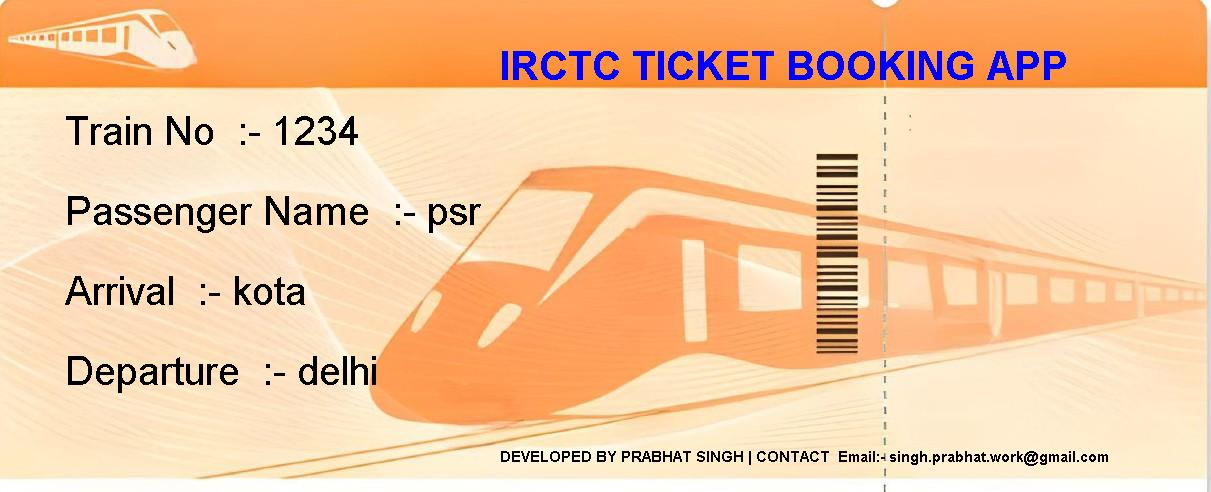
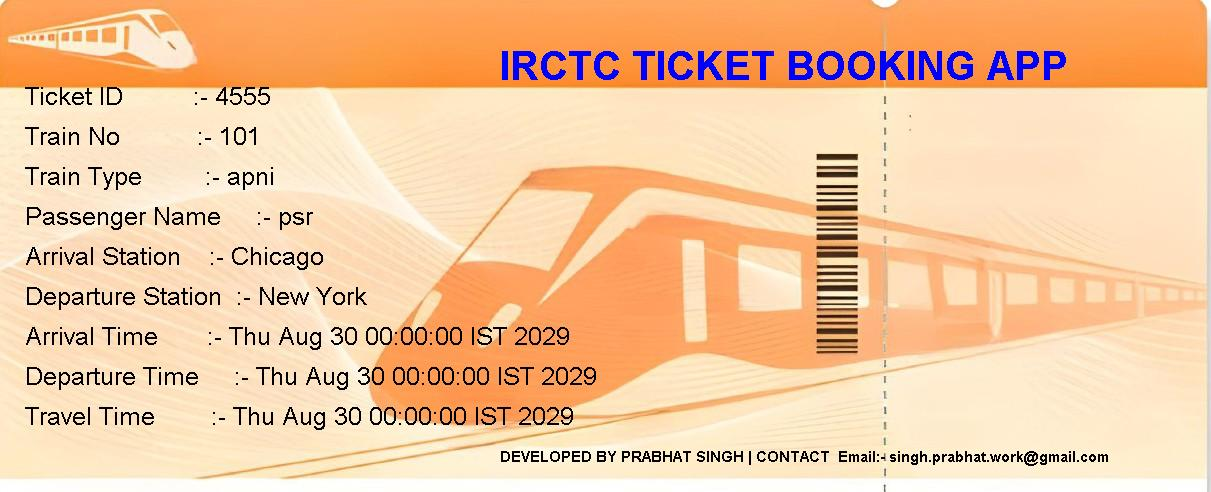
add more content in ticket

diff --git a/app/src/main/java/org/example/services/TicketServices.java b/app/src/main/java/org/example/services/TicketServices.java
@@ -3,12 +3,9 @@ package org.example.services;
 import org.example.TicketGenerator;
 import org.example.Utilities;
 
-import java.sql.Connection;
-import java.sql.PreparedStatement;
-import java.sql.SQLException;
+import java.sql.*;
 import java.text.ParseException;
 import java.text.SimpleDateFormat;
-import java.sql.Date;
 import java.util.UUID;
 
 import static org.example.dataBase.DataBaseConfig.createConnection;
@@ -22,20 +19,43 @@ public class TicketServices {
 
     // Method to book a ticket
     public void bookTicket(int trainId, String destination, String arrival, String date, String name, String email) {
-        // SQL queries for inserting a ticket and updating train seat availability
+        // SQL queries for inserting a ticket, updating train seat availability, and retrieving train details
         String query = "INSERT INTO ticket (TicketId, TicketDate, PassangerName, DateOfTravel, TrainID, Destination, Departure) VALUES (?, ?, ?, ?, ?, ?, ?)";
         String query2 = "UPDATE TrainDetails SET TotalSeats = TotalSeats - 1 WHERE trainId = ?;";
+        String query3 = "SELECT TrainType, ArrivalTime, DepartureTime FROM TrainDetails WHERE TrainID = ?";  // New query to retrieve train details
 
         try (Connection connection = createConnection()) {
+            // 1. Get train details (TrainType, ArrivalTime, DepartureTime)
+            PreparedStatement stmt = connection.prepareStatement(query3);
+            stmt.setInt(1, trainId); // Set the trainId parameter
+            ResultSet rs = stmt.executeQuery();
+
+            // Declare variables to store train details
+            String trainType;
+            Time arrivalTime;
+            Time departureTime;
+
+            // Fetch the details from the result set
+            if (rs.next()) {
+                trainType = rs.getString("TrainType");
+                arrivalTime = rs.getTime("ArrivalTime");
+                departureTime = rs.getTime("DepartureTime");
+            } else {
+                System.out.println("No train found for Train ID: " + trainId);
+                return;  // Exit the method if no train found with the given TrainID
+            }
+
+            // 2. Proceed with booking the ticket (Insert into ticket table and update seats)
             PreparedStatement preparedStatement = connection.prepareStatement(query);
 
             // Convert input travelDate to java.sql.Date
             SimpleDateFormat sdf = new SimpleDateFormat("dd-MM-yyyy");
             java.util.Date parsedTravelDate = sdf.parse(date);
             Date sqlTravelDate = new Date(parsedTravelDate.getTime());
+            String ticketID = generateUniqueId();
 
             // Set parameters in the correct order
-            preparedStatement.setString(1, generateUniqueId()); // TicketId
+            preparedStatement.setString(1, ticketID); // TicketId
             preparedStatement.setDate(2, new Date(System.currentTimeMillis())); // Current date for TicketDate
             preparedStatement.setString(3, name); // Passenger Name
             preparedStatement.setDate(4, sqlTravelDate); // Date of Travel
@@ -43,7 +63,7 @@ public class TicketServices {
             preparedStatement.setString(6, destination); // Destination
             preparedStatement.setString(7, arrival); // Departure
 
-            // Execute the query
+            // Execute the query to insert the ticket
             preparedStatement.executeUpdate();
 
             // Decrement seat count for the train
@@ -56,7 +76,8 @@ public class TicketServices {
 
             // Generate and send the ticket
             TicketGenerator ticket = new TicketGenerator();
-            String path = ticket.printTicket(trainId, name, arrival, destination);
+            String path = ticket.printTicket(ticketID, trainId, trainType,arrivalTime,departureTime,name, arrival, destination,sqlTravelDate);
+
             VerificationEmail ticketEmail = new VerificationEmail();
 
             // Try to send the ticket via email
@@ -70,9 +91,7 @@ public class TicketServices {
             }
 
         } catch (SQLException | ParseException e) {
-            // Error handling with user-friendly message instead of printStackTrace
             System.err.println("Error: There was an issue while booking the ticket. Please check your input or database connection.");
-            throw new RuntimeException(e); // Rethrow exception for further handling if necessary
         }
     }
 

diff --git a/app/src/main/java/org/example/TicketGenerator.java b/app/src/main/java/org/example/TicketGenerator.java
@@ -5,11 +5,37 @@ import java.awt.*;
 import java.awt.image.BufferedImage;
 import java.io.File;
 import java.io.IOException;
+import java.text.ParseException;
+import java.text.SimpleDateFormat;
+import java.util.Date;
 
 public class TicketGenerator {
+    public static void main(String[] args) throws ParseException {
+        String ticketId = "4555";
+        int trainId = 101; // Test with an existing train ID
+        String Traintype = "apni";
+        String dateStr = "08-30-29"; // Date in MM-dd-yy format
+
+        // Parse the string to Date using SimpleDateFormat
+        SimpleDateFormat sdf = new SimpleDateFormat("MM-dd-yy");
+        Date arrival = sdf.parse(dateStr);
+        String dateStr1 = "08-30-29"; // Date in MM-dd-yy format
+
+        // Parse the string to Date using SimpleDateFormat
+        SimpleDateFormat sdf1 = new SimpleDateFormat("MM-dd-yy");
+        Date departure = sdf1.parse(dateStr1);
+        String destination = "New York";
+        String arrivalstation = "Chicago";
+        String name  = "psr";
+        String dateStr01 = "08-30-39"; // Date in MM-dd-yy format
+        SimpleDateFormat sdf2 = new SimpleDateFormat("MM-dd-yy");
+        Date date = sdf2.parse(dateStr01);
+
+        printTicket(ticketId,trainId,Traintype,arrival,departure,name,arrivalstation,destination,date);
+    }
 
     // Method to generate and print a ticket for a passenger
-    public String printTicket(int trainId, String passangerName, String arrival, String destination) {
+    public static String printTicket(String ticketId, int trainId, String trainType, Date arrivalTime,Date departureTime, String passangerName, String arrival, String destination,Date travelDate) {
         String path = "app/src/main/resources/Ticket.jpg";  // File path for the generated ticket
         try {
             // Load the background image for the ticket
@@ -30,19 +56,23 @@ public class TicketGenerator {
             g2d.drawString(title, titleX, titleY);
 
             // Set font and color for the rest of the text
-            g2d.setFont(new Font("Arial", Font.PLAIN, 40));
+            g2d.setFont(new Font("Arial", Font.PLAIN, 25));
             g2d.setColor(Color.BLACK);
 
             // Padding and height for text positioning
-            int padding = 65;
-            int heightLine = 80;
+            int padding = 25;
+            int heightLine = 40;
 
             // Draw ticket details on the image
-            g2d.drawString("Train No  :- " + trainId, padding, padding + heightLine);
-            g2d.drawString("Passenger Name  :- " + passangerName, padding, padding + heightLine * 2);
-            g2d.drawString("Arrival  :- " + arrival, padding, padding + heightLine * 3);
-            g2d.drawString("Departure  :- " + destination, padding, padding + heightLine * 4);
-
+            g2d.drawString("Ticket ID          :- " + ticketId, padding, padding + heightLine * 2);
+            g2d.drawString("Train No           :- " + trainId, padding, padding + heightLine * 3);
+            g2d.drawString("Train Type         :- " + trainType, padding, padding + heightLine * 4);
+            g2d.drawString("Passenger Name     :- " + passangerName, padding, padding + heightLine * 5);
+            g2d.drawString("Arrival Station    :- " + arrival, padding, padding + heightLine * 6);
+            g2d.drawString("Departure Station  :- " + destination, padding, padding + heightLine * 7);
+            g2d.drawString("Arrival Time       :- " + arrivalTime, padding, padding + heightLine * 8);
+            g2d.drawString("Departure Time     :- " + departureTime, padding, padding + heightLine * 9);
+            g2d.drawString("Travel Time        :- " + departureTime, padding, padding + heightLine * 10);
             // Set font and color for the footer text
             g2d.setFont(new Font("Arial", Font.BOLD, 15));
             g2d.setColor(Color.BLACK);

diff --git a/app/src/main/java/org/example/services/TrainServices.java b/app/src/main/java/org/example/services/TrainServices.java
@@ -107,8 +107,8 @@ public class TrainServices {
         }
     }
     public boolean isTrainIdValid(int trainId) {
-        // SQL query to check if the train ID exists in the trains table
-        String query = "SELECT COUNT(*) FROM trains WHERE TrainID = ?";
+        // SQL query to check if the train ID exists in the TrainDetails table
+        String query = "SELECT COUNT(*) FROM TrainDetails WHERE TrainID = ?";
 
         try (Connection connection = createConnection();
              PreparedStatement stmt = connection.prepareStatement(query)) {
@@ -121,12 +121,16 @@ public class TrainServices {
 
             if (rs.next()) {
                 // Check if the count is greater than 0 (i.e., train ID exists)
-                return rs.getInt(1) > 0;
+                int count = rs.getInt(1);
+                return count > 0;
+            } else {
+                System.out.println("No train found for Train ID: " + trainId);
             }
         } catch (SQLException e) {
             System.out.println("An error occurred while validating the Train ID. Please try again later.");
         }
         return false;
     }
+
 }
 
